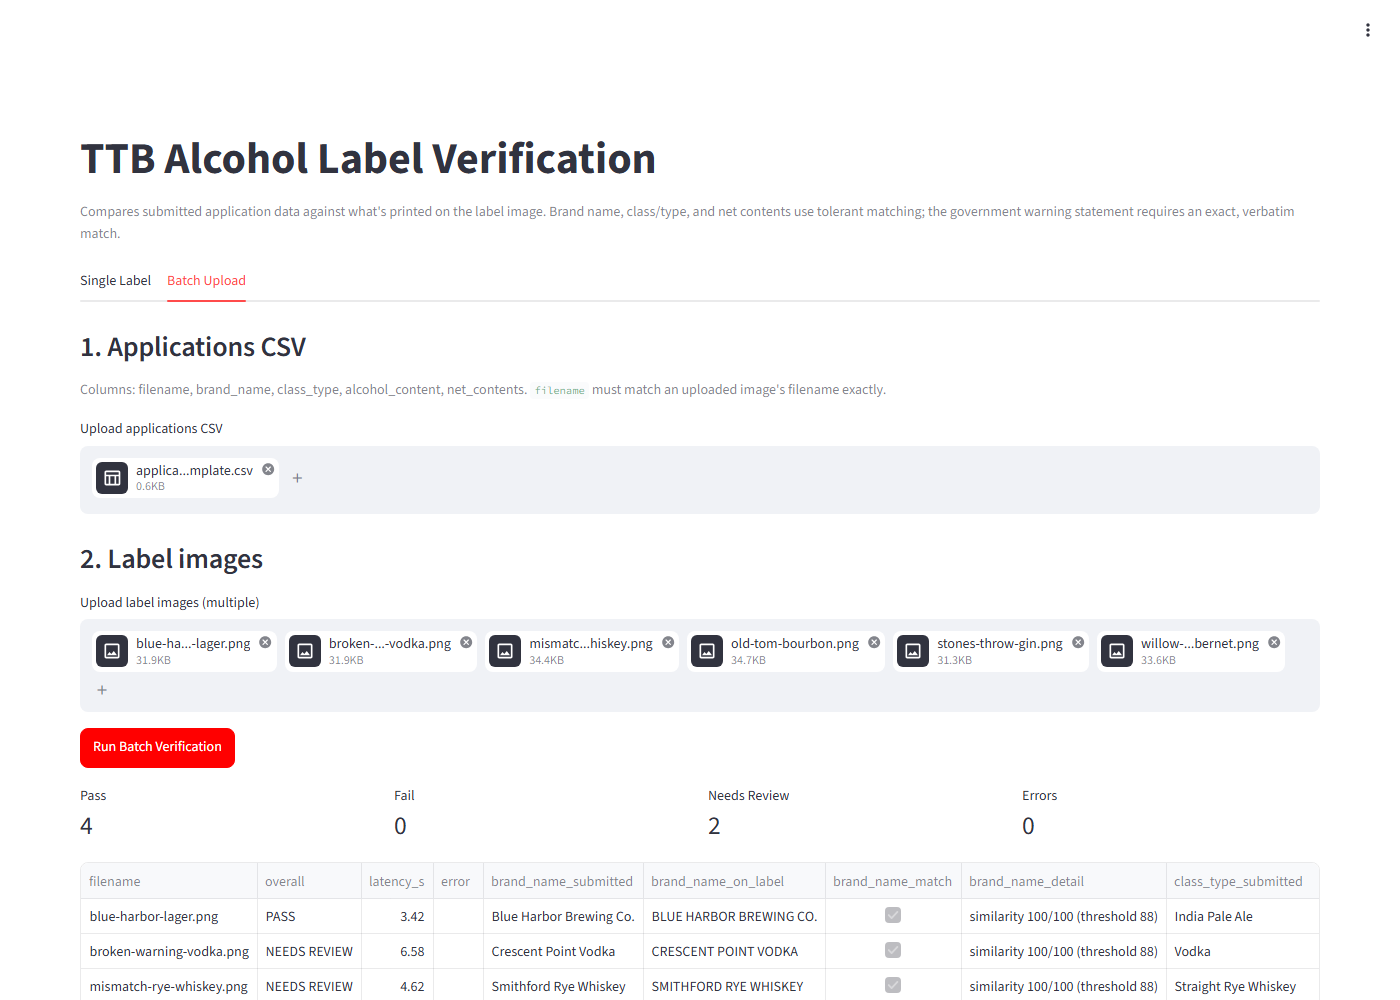
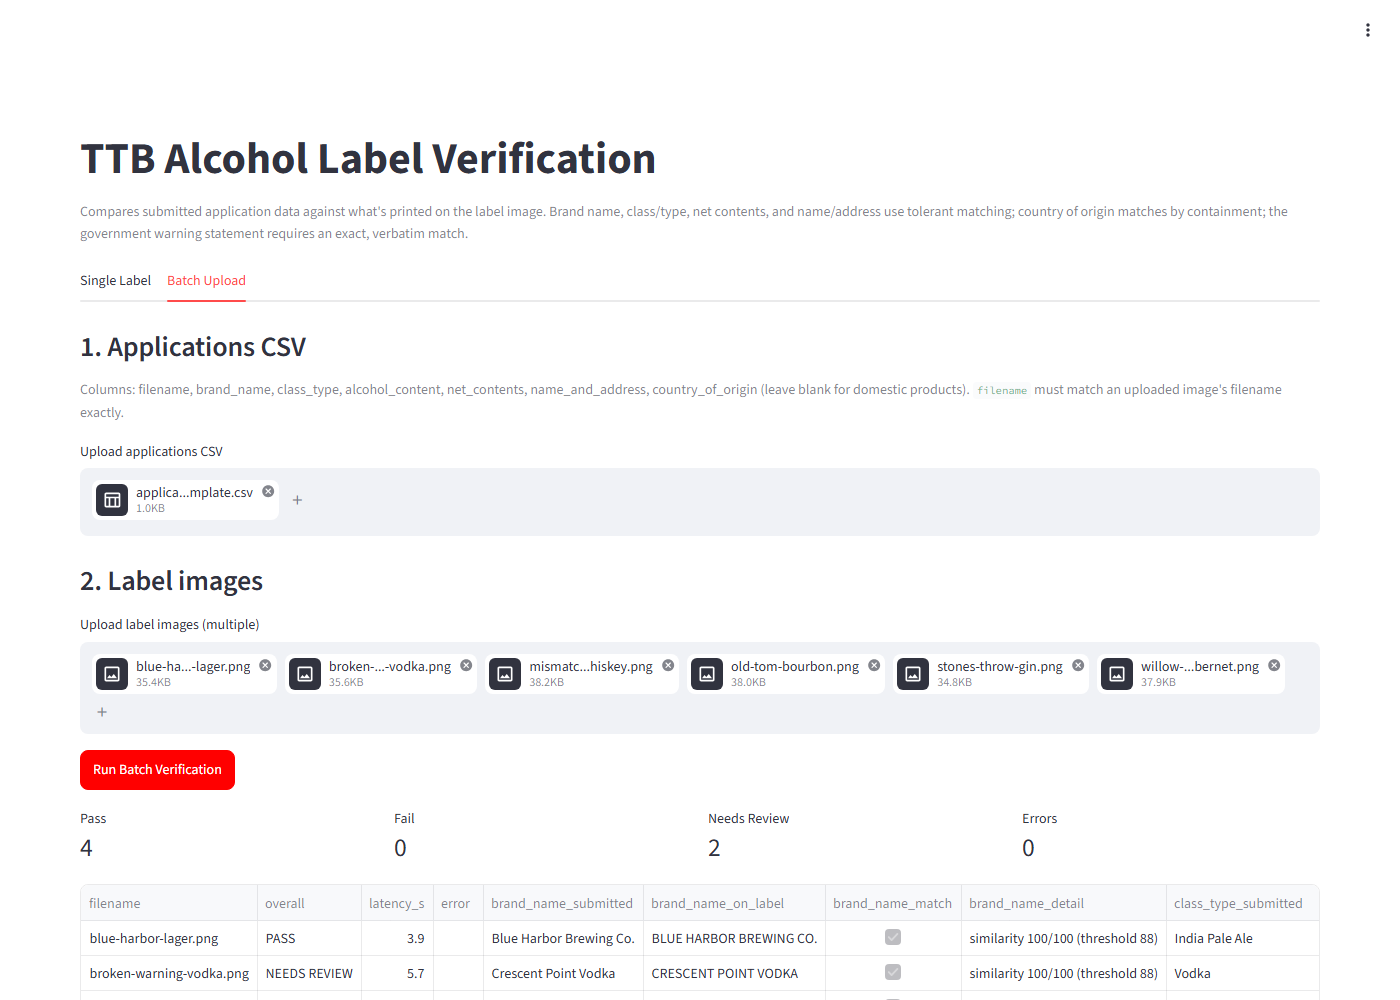
Add name_and_address and country_of_origin fields
Covers the two label elements from the brief's "Additional Context"
section that weren't implemented yet. name_and_address uses the same
fuzzy matching as brand/class/net-contents; country_of_origin uses
containment matching instead (labels print "Product of Italy," a
plain fuzzy ratio penalizes that against a submitted "Italy") and is
optional since it's legitimately blank for domestic products.

Regenerated the 6 test-plan label images to include a bottler address
so the existing PASS/NEEDS REVIEW expectations still hold with the new
required field. Verified against the real Prosecco photo (label-3.jpg)
that containment matching works on an actual import. Redeployed and
re-verified both UI flows against production; screenshots updated to
match.

diff --git a/app.py b/app.py
@@ -92,8 +92,9 @@ def render_result(result: VerificationResult) -> None:
 st.title("TTB Alcohol Label Verification")
 st.caption(
     "Compares submitted application data against what's printed on the label image. "
-    "Brand name, class/type, and net contents use tolerant matching; the government "
-    "warning statement requires an exact, verbatim match."
+    "Brand name, class/type, net contents, and name/address use tolerant matching; "
+    "country of origin matches by containment; the government warning statement "
+    "requires an exact, verbatim match."
 )
 
 tab_single, tab_batch = st.tabs(["Single Label", "Batch Upload"])
@@ -104,9 +105,16 @@ with tab_single:
     with col1:
         brand_name = st.text_input("Brand Name", placeholder="OLD TOM DISTILLERY")
         class_type = st.text_input("Class / Type", placeholder="Kentucky Straight Bourbon Whiskey")
+        name_and_address = st.text_input(
+            "Name & Address (bottler/producer)",
+            placeholder="Distilled and Bottled by Old Tom Distillery, Louisville, KY",
+        )
     with col2:
         alcohol_content = st.text_input("Alcohol Content", placeholder="45% Alc./Vol. (90 Proof)")
         net_contents = st.text_input("Net Contents", placeholder="750 mL")
+        country_of_origin = st.text_input(
+            "Country of Origin (imports only)", placeholder="Leave blank for domestic products"
+        )
 
     st.subheader("2. Label image")
     image_file = st.file_uploader(
@@ -119,6 +127,8 @@ with tab_single:
             class_type=class_type,
             alcohol_content=alcohol_content,
             net_contents=net_contents,
+            name_and_address=name_and_address,
+            country_of_origin=country_of_origin,
         )
         with st.spinner("Reading label..."):
             result = run_single(image_file.getvalue(), image_file.name, application)
@@ -127,7 +137,8 @@ with tab_single:
 with tab_batch:
     st.subheader("1. Applications CSV")
     st.caption(
-        "Columns: filename, brand_name, class_type, alcohol_content, net_contents. "
+        "Columns: filename, brand_name, class_type, alcohol_content, net_contents, "
+        "name_and_address, country_of_origin (leave blank for domestic products). "
         "`filename` must match an uploaded image's filename exactly."
     )
     csv_file = st.file_uploader("Upload applications CSV", type=["csv"], key="batch_csv")
@@ -142,7 +153,14 @@ with tab_batch:
 
     if st.button("Run Batch Verification", type="primary", disabled=not (csv_file and image_files)):
         apps_df = pd.read_csv(csv_file)
-        required_cols = {"filename", "brand_name", "class_type", "alcohol_content", "net_contents"}
+        required_cols = {
+            "filename",
+            "brand_name",
+            "class_type",
+            "alcohol_content",
+            "net_contents",
+            "name_and_address",
+        }  # country_of_origin is optional -- legitimately blank for domestic products
         missing = required_cols - set(apps_df.columns)
 
         if missing:
@@ -161,11 +179,19 @@ with tab_batch:
                     return VerificationResult(
                         filename=fname, overall="ERROR", error="No matching image uploaded for this filename."
                     )
+                # country_of_origin is an optional column; a blank cell reads
+                # back as NaN from pandas, not "", so it needs an explicit
+                # empty-string fallback rather than a plain str() cast.
+                country = row.get("country_of_origin", "")
+                country = "" if pd.isna(country) else str(country)
+
                 application = ApplicationData(
                     brand_name=str(row["brand_name"]),
                     class_type=str(row["class_type"]),
                     alcohol_content=str(row["alcohol_content"]),
                     net_contents=str(row["net_contents"]),
+                    name_and_address=str(row["name_and_address"]),
+                    country_of_origin=country,
                 )
                 return run_single(img_bytes, fname, application)
 

diff --git a/extraction.py b/extraction.py
@@ -37,6 +37,16 @@ EXTRACTION_TOOL = {
                 "type": "string",
                 "description": "Net contents exactly as printed, e.g. '750 mL'.",
             },
+            "name_and_address": {
+                "type": "string",
+                "description": (
+                    "Name and address of the bottler/producer exactly as "
+                    "printed, e.g. 'Distilled and Bottled by Old Tom "
+                    "Distillery, Louisville, KY'. May span multiple lines on "
+                    "the label -- join them with a single space. Empty "
+                    "string if not present."
+                ),
+            },
             "warning_statement_text": {
                 "type": "string",
                 "description": (
@@ -57,6 +67,15 @@ EXTRACTION_TOOL = {
                     "is present."
                 ),
             },
+            "country_of_origin": {
+                "type": "string",
+                "description": (
+                    "Country of origin exactly as printed, e.g. 'Product of "
+                    "Italy'. Only required on imports -- empty string if not "
+                    "present, which is normal and expected for domestic "
+                    "products."
+                ),
+            },
             "notes": {
                 "type": "string",
                 "description": (
@@ -70,8 +89,10 @@ EXTRACTION_TOOL = {
             "class_type",
             "alcohol_content",
             "net_contents",
+            "name_and_address",
             "warning_statement_text",
             "warning_heading_is_caps_bold",
+            "country_of_origin",
             "notes",
         ],
     },
@@ -167,8 +188,10 @@ def extract_label_fields(
         class_type=data["class_type"],
         alcohol_content=data["alcohol_content"],
         net_contents=data["net_contents"],
+        name_and_address=data["name_and_address"],
         warning_statement_text=data["warning_statement_text"],
         warning_heading_is_caps_bold=data["warning_heading_is_caps_bold"],
+        country_of_origin=data.get("country_of_origin", ""),
         notes=data.get("notes", ""),
     )
     return extracted, latency

diff --git a/matching.py b/matching.py
@@ -79,6 +79,36 @@ def _match_abv(submitted: str, extracted: str) -> FieldResult:
     )
 
 
+def _match_country_of_origin(submitted: str, extracted: str) -> FieldResult:
+    norm_sub = _normalize_loose(submitted)
+    norm_ext = _normalize_loose(extracted)
+
+    if not norm_sub and not norm_ext:
+        return FieldResult(
+            field="country_of_origin",
+            submitted=submitted,
+            extracted=extracted,
+            match=True,
+            method="fuzzy",
+            detail="Not applicable on either side (expected for domestic products).",
+        )
+
+    # Containment, not a straight ratio: labels commonly print "Product of
+    # Italy" or "Made in Italy" while the application just says "Italy" --
+    # token_sort_ratio penalizes that length mismatch even though the
+    # country itself matches exactly.
+    if norm_sub and norm_sub in norm_ext:
+        return FieldResult(
+            field="country_of_origin",
+            submitted=submitted,
+            extracted=extracted,
+            match=True,
+            method="fuzzy",
+            detail="Submitted country found in label text.",
+        )
+    return _fuzzy_field("country_of_origin", submitted, extracted)
+
+
 def _match_warning(extracted_text: str, heading_caps_bold: bool) -> FieldResult:
     # Case-insensitive: many real labels print the entire statement in caps
     # as a style choice, which is compliant. The regulation's all-caps
@@ -117,6 +147,8 @@ def verify_fields(application: ApplicationData, extracted: ExtractedLabel) -> li
         _fuzzy_field("class_type", application.class_type, extracted.class_type),
         _match_abv(application.alcohol_content, extracted.alcohol_content),
         _fuzzy_field("net_contents", application.net_contents, extracted.net_contents),
+        _fuzzy_field("name_and_address", application.name_and_address, extracted.name_and_address),
+        _match_country_of_origin(application.country_of_origin, extracted.country_of_origin),
         _match_warning(extracted.warning_statement_text, extracted.warning_heading_is_caps_bold),
     ]
 

diff --git a/.claude/skills/run-ttb-label-verification/driver.py b/.claude/skills/run-ttb-label-verification/driver.py
@@ -173,6 +173,8 @@ def cmd_single(args):
             ("Class / Type", args.class_type),
             ("Alcohol Content", args.abv),
             ("Net Contents", args.net_contents),
+            ("Name & Address (bottler/producer)", args.name_address),
+            ("Country of Origin (imports only)", args.country),
         ]:
             field = page.get_by_label(label)
             field.fill(value)
@@ -226,6 +228,8 @@ def main():
     p_single.add_argument("class_type")
     p_single.add_argument("abv")
     p_single.add_argument("net_contents")
+    p_single.add_argument("--name-address", dest="name_address", default="", help="bottler/producer name & address (optional field, blank by default)")
+    p_single.add_argument("--country", default="", help="country of origin, imports only (optional field, blank by default)")
     p_single.add_argument("--url", help="target a remote deployment instead of localhost:8501 (skips the local `start` check)")
 
     args = parser.parse_args()

diff --git a/models.py b/models.py
@@ -11,6 +11,11 @@ class ApplicationData:
     class_type: str
     alcohol_content: str
     net_contents: str
+    name_and_address: str
+    # Only required for imports (27 CFR) -- domestic products legitimately
+    # have no country of origin printed anywhere, so this defaults empty
+    # rather than being treated as always-required like the fields above.
+    country_of_origin: str = ""
 
 
 @dataclass
@@ -21,8 +26,10 @@ class ExtractedLabel:
     class_type: str
     alcohol_content: str
     net_contents: str
+    name_and_address: str
     warning_statement_text: str
     warning_heading_is_caps_bold: bool
+    country_of_origin: str = ""
     notes: str = ""
 
 

diff --git a/sample_data/label_test_plan.md b/sample_data/label_test_plan.md
@@ -1,10 +1,12 @@
 # Sample label test plan
 
-Six labels: a clean baseline (matches the brief's own example exactly), two
-labels that specifically exercise the interview edge cases, one genuine
-mismatch, and two more beverage types for breadth. `applications_template.csv`
-already has the matching application-data rows -- filenames must line up
-with whatever the generated images are saved as.
+Six generated labels: a clean baseline (matches the brief's own example
+exactly), two labels that specifically exercise the interview edge cases,
+one genuine mismatch, and two more beverage types for breadth. Plus one
+real-world photo (#7) demonstrating the country-of-origin containment
+match. `applications_template.csv` has the matching application-data rows
+for the six generated labels -- filenames must line up with whatever the
+generated images are saved as.
 
 For each label below: **Application data** is what you type into the app
 (or what's already in the CSV). **On the label image** is the exact text
@@ -36,6 +38,8 @@ The brief's own example. Every field should match exactly.
 - Class/Type: `Kentucky Straight Bourbon Whiskey`
 - Alcohol Content: `45% Alc./Vol. (90 Proof)`
 - Net Contents: `750 mL`
+- Name & Address: `Distilled and Bottled by Old Tom Distillery, Louisville, KY`
+- Country of Origin: _(blank -- domestic)_
 
 **On the label image:** identical text, plus the full warning statement
 correctly formatted.
@@ -55,6 +59,8 @@ punctuation on the brand name only.
 - Class/Type: `London Dry Gin`
 - Alcohol Content: `40% Alc./Vol. (80 Proof)`
 - Net Contents: `750 mL`
+- Name & Address: `Distilled by Stone's Throw Distillery, Portland, OR`
+- Country of Origin: _(blank -- domestic)_
 
 **On the label image:**
 - Brand name printed as: `STONE'S THROW` (all caps, as a label would
@@ -79,10 +85,12 @@ that a human proofreader would also catch.
 - Class/Type: `Vodka`
 - Alcohol Content: `40% Alc./Vol. (80 Proof)`
 - Net Contents: `1 L`
+- Name & Address: `Produced and Bottled by Crescent Point Distillers, Austin, TX`
+- Country of Origin: _(blank -- domestic)_
 
 **On the label image:**
-- Brand name, class/type, alcohol content, net contents: identical to
-  application data
+- Brand name, class/type, alcohol content, net contents, name/address:
+  identical to application data
 - Warning statement text: same wording, but printed as **`Government
   Warning:`** in title case instead of `GOVERNMENT WARNING:` in all caps --
   this is Jenny's exact example ("I caught one last month where they used
@@ -104,9 +112,12 @@ and not smoothed over by fuzzy/tolerance matching.
 - Class/Type: `Straight Rye Whiskey`
 - Alcohol Content: `45% Alc./Vol. (90 Proof)`
 - Net Contents: `750 mL`
+- Name & Address: `Distilled by Smithford Distilling Co., Bardstown, KY`
+- Country of Origin: _(blank -- domestic)_
 
 **On the label image:**
-- Brand name, class/type, net contents: identical to application data
+- Brand name, class/type, net contents, name/address: identical to
+  application data
 - Alcohol Content printed as: `40% Alc./Vol. (80 Proof)` -- a real 5-point
   ABV discrepancy, well outside the ±0.3% tolerance
 - Full warning statement, correctly formatted
@@ -125,6 +136,8 @@ Breadth case: confirms the pipeline isn't spirits-specific.
 - Class/Type: `India Pale Ale`
 - Alcohol Content: `6.5% Alc./Vol.`
 - Net Contents: `12 FL OZ`
+- Name & Address: `Brewed and Bottled by Blue Harbor Brewing Co., Portland, ME`
+- Country of Origin: _(blank -- domestic)_
 
 **On the label image:** identical text, plus the full warning statement
 correctly formatted.
@@ -142,11 +155,26 @@ Second breadth case.
 - Class/Type: `Cabernet Sauvignon`
 - Alcohol Content: `13.5% Alc./Vol.`
 - Net Contents: `750 mL`
+- Name & Address: `Produced and Bottled by Willow Glen Vineyards, Napa, CA`
+- Country of Origin: _(blank -- domestic)_
 
 **On the label image:** identical text, plus the full warning statement
 correctly formatted.
 
 **Expected result:** PASS, all fields.
+
+---
+
+### 7. `label-3.jpg` -- real-world import, country-of-origin containment match
+
+Not part of the CSV batch (it's one of the real bottle photos from earlier
+testing, not a generated label) but worth noting here: this is an actual
+Italian Prosecco bottle that prints "Product of Italy" on the back label.
+Submitting `Italy` as the application's Country of Origin value correctly
+matches via containment (`matching.py`'s `_match_country_of_origin`), even
+though the label's printed text is "Product of Italy," not just "Italy."
+See the "Why direct API, not Vertex" / "Approach" sections of the main
+README for the containment-matching rationale.
 
 ---
 

diff --git a/README.md b/README.md
@@ -2,7 +2,8 @@
 
 A prototype that checks whether an alcohol beverage label image matches the
 data submitted on its application: brand name, class/type, alcohol content,
-net contents, and the mandatory government warning statement.
+net contents, name and address of the bottler/producer, country of origin
+(imports only), and the mandatory government warning statement.
 
 ## Screenshots
 
@@ -101,16 +102,26 @@ Drop `--allow-unauthenticated` if this shouldn't be publicly reachable.
   fields as printed, not to correct or interpret them — judgment about
   whether a transcription *matches* the application happens afterward, in
   plain Python, not inside the model call.
-- **Matching is deliberately split into two different rules**, because the
-  two things being checked have opposite tolerance requirements:
-  - Brand name, class/type, and net contents use **fuzzy matching**
-    (`rapidfuzz`, case/punctuation-insensitive, similarity threshold 88/100).
-    This is the "STONE'S THROW" vs "Stone's Throw" case — technically not
+- **Matching is deliberately split into several rules**, because the
+  fields being checked have different tolerance requirements. Covers
+  every field the brief's "Additional Context" section names, not just
+  the five in its worked example:
+  - Brand name, class/type, net contents, and name/address of the
+    bottler/producer use **fuzzy matching** (`rapidfuzz`,
+    case/punctuation-insensitive, similarity threshold 88/100). This is
+    the "STONE'S THROW" vs "Stone's Throw" case — technically not
     identical strings, but the same brand, and a compliance agent's own
     judgment would pass it.
   - Alcohol content is parsed to a number and compared with a small
     tolerance (±0.3%), since ABV is numeric, not a string-similarity
     problem.
+  - Country of origin uses **containment matching**, not a straight fuzzy
+    ratio: real labels print "Product of Italy" or "Made in Italy" while
+    an application typically just says "Italy," and a plain similarity
+    ratio penalizes that length difference even though the country
+    matches exactly. Required only for imports — legitimately blank on
+    both sides for domestic products, which counts as a match rather
+    than a missing-field failure.
   - The **government warning statement is checked with exact, verbatim text
     comparison** against the required statutory wording (27 CFR 16.21),
     plus a separate check that "GOVERNMENT WARNING:" is both all-caps and

diff --git a/.claude/skills/run-ttb-label-verification/SKILL.md b/.claude/skills/run-ttb-label-verification/SKILL.md
@@ -157,6 +157,15 @@ has a documented expected verdict) -- see that file for the full matrix.
   the `except` is what actually surfaced the traceback that led to the
   two gotchas above. If you add new try/except blocks to this app,
   log inside them, not just display-in-UI.
+- **File uploads against a `--url` remote target are flakier than against
+  localhost.** Hit this once: `set_input_files()` silently didn't attach
+  the file at all (screenshot showed the empty uploader, no chip, no error)
+  even though every text field committed correctly -- likely the extra
+  network latency of a real Cloud Run round-trip vs. instant localhost
+  changing the timing `driver.py` assumes. A plain retry succeeded. If
+  this recurs, the real fix is polling for the upload chip to appear
+  (not just the button's enabled state) with a longer timeout when `--url`
+  is set, rather than assuming local-dev timing holds remotely too.
 
 ## Troubleshooting
 
